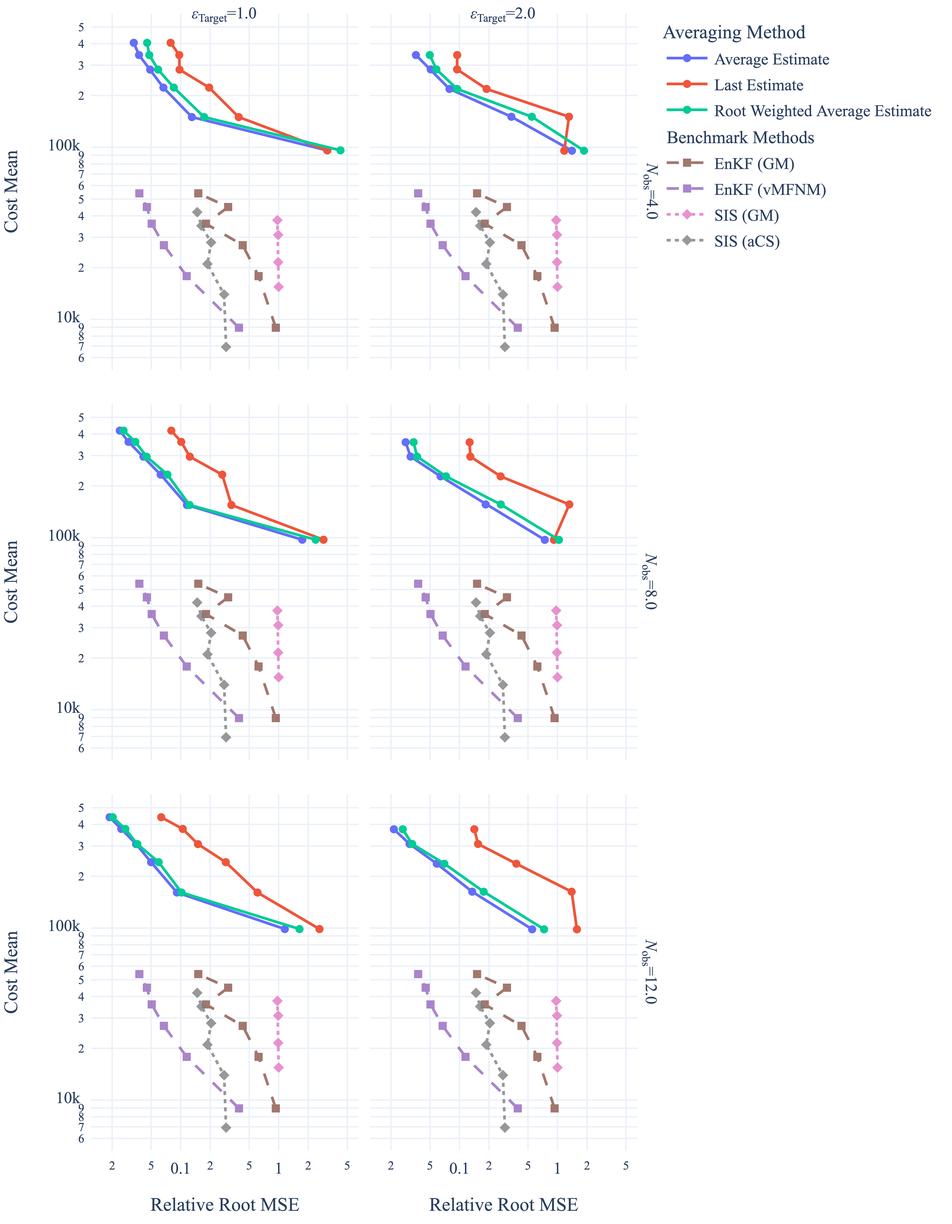
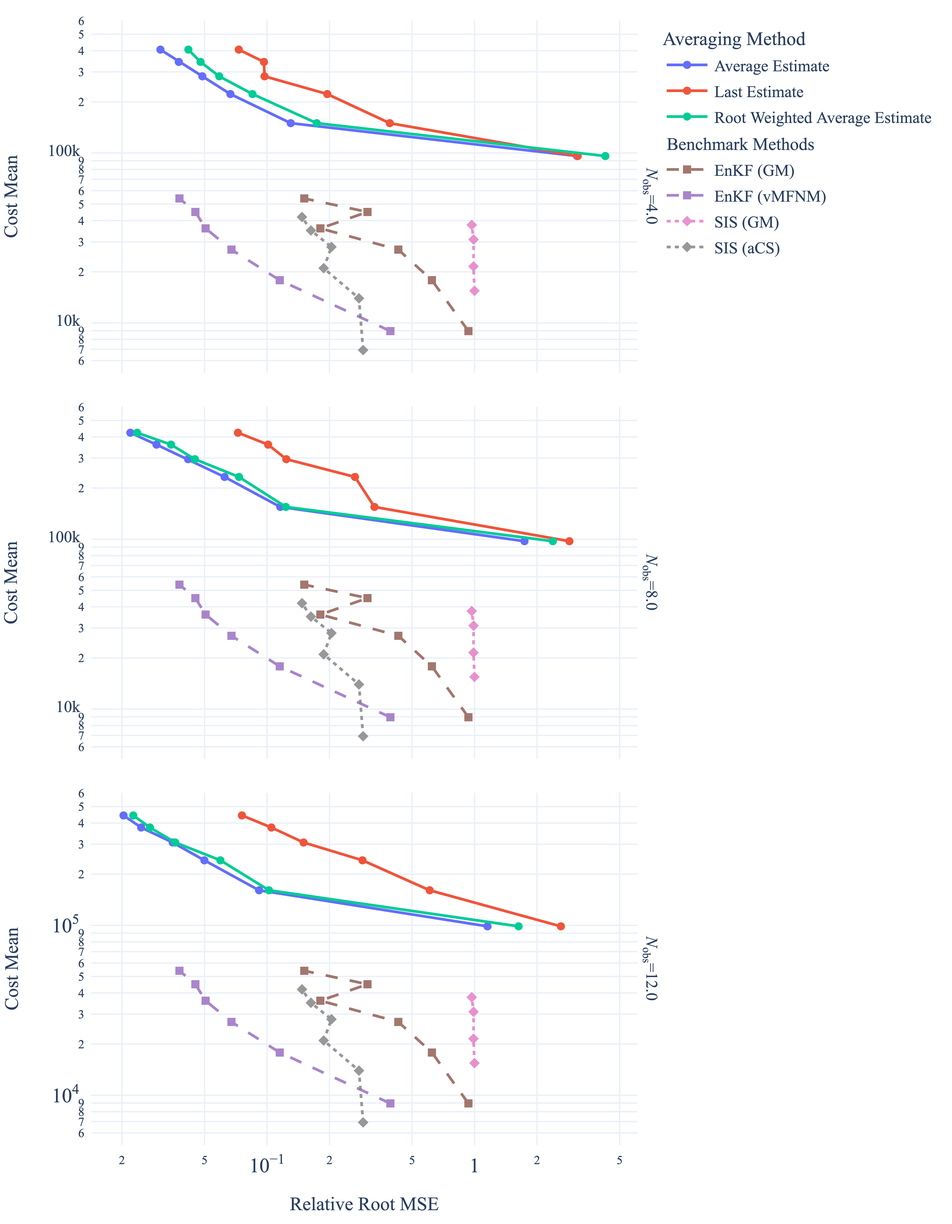
more on visualization.

diff --git a/docs/benchmarking/stopping_criterion.py b/docs/benchmarking/stopping_criterion.py
@@ -36,7 +36,7 @@ if not  (path.exists(path_df) and path.exists(path_df_agg) and path.exists(path_
     df = df.apply(expand_cbree_name, axis=1, columns= ['observation_window', 'callback'])
     # %% Pretty names
     to_drop = ["mixture_model"] # info is redundant as resample = False and callback exists
-    replace_values = {"Method": {"False": "CBREE", "vMFNM Resample": "CBREE (vMFNM)"}}
+    replace_values = {"Method": {"False": "CBREE", "vMFN Resample": "CBREE (vMFN, resampled)"}}
     df = df.drop(columns=to_drop) \
         .rename(columns=DF_COLUMNS_TO_LATEX) \
         .replace(replace_values)
@@ -56,7 +56,7 @@ if not  (path.exists(path_df) and path.exists(path_df_agg) and path.exists(path_
     #%% save
     df_success.to_pickle(path_df)
     df_agg.to_pickle(path_df_agg)
-    image.png.to_pickle(path_df_agg_all)
+    df_agg_all.to_pickle(path_df_agg_all)
 else:
     df_success = pd.read_pickle(path_df)
     df_agg = pd.read_pickle(path_df_agg)
@@ -83,7 +83,7 @@ tbl_params
 def decide(grp,par):
     best = grp.sort_values("Relative Root MSE")[par].values[0]
     return(pd.Series([best], index =[f"{par}"]))
-df_tgt_fun = df_agg.query("Problem in @low_dim_probs")\
+df_tgt_fun = df_agg.query("Problem in @low_dim_probs & Method == 'CBREE'")\
     .loc[:,("Problem", "Sample Size", "$\\Delta_{{\\text{{Target}}}}$", "Method", "Smoothing Function", "Relative Root MSE", "$N_{{ \\text{{obs}} }}$", "$\\epsilon_{{\\text{{Target}}}}$")] \
     .groupby(["Problem", "Sample Size", "$\\Delta_{{\\text{{Target}}}}$", "Method", "$N_{{ \\text{{obs}} }}$", "$\\epsilon_{{\\text{{Target}}}}$"]) \
     .apply(decide, "Smoothing Function") 
@@ -100,14 +100,14 @@ tbl = tbl.applymap(lambda x: f"{x*100:.2f}\%")
 tbl = tbl.rename(index = INDICATOR_APPROX_LATEX_NAME)
 tbl = tbl.rename(columns={c:squeeze_problem_names(c) for c in tbl.columns})
 tbl.style.to_latex("performance_approximations.tex", clines="all;data")
-tbl_description = f"Comparing the estimates of $\\textup{{relRootMSE}}(\\hat{{P}}_f)$ for different smoothing functions averaged over  all other parameter choices. The values denote the relative number of cases the corresponding smoothing function performed best for the given problem ({int(totals[0])} per problem)."
+tbl_description = f"Comparing the estimates of $\\textup{{relRootMSE}}(\\hat{{P}}_f)$ for different smoothing functions averaged over  all other parameter choices. The values denote the relative number of cases the corresponding smoothing function performed best for the given problem (in total {int(totals[0])} per problem)."
 with open(f"performance_approximations_desc.tex", "w") as file:
     file.write(tbl_description)
 print(tbl_description)
 tbl
 
 # %% Decide which stepsize tolerance is better
-df_tol = df_agg.query("Problem in @low_dim_probs")\
+df_tol = df_agg.query("Problem in @low_dim_probs & Method == 'CBREE'")\
     .loc[:,("Problem", "Sample Size", "$\\Delta_{{\\text{{Target}}}}$", "Method", "$\\epsilon_{{\\text{{Target}}}}$", "Relative Root MSE", "$N_{{ \\text{{obs}} }}$","Smoothing Function")] \
     .groupby(["Problem", "Sample Size", "$\\Delta_{{\\text{{Target}}}}$", "Method", "$N_{{ \\text{{obs}} }}$", "Smoothing Function"]) \
     .apply(decide,  "$\\epsilon_{{\\text{{Target}}}}$")     
@@ -122,14 +122,14 @@ tbl = tbl.applymap(lambda x: f"{x*100:.2f}\%")
 tbl = tbl.rename(columns={c:squeeze_problem_names(c) for c in tbl.columns}).\
     rename(index={idx:str(idx) for idx in tbl.index })
 tbl.style.to_latex("performance_stepsize_tolerance.tex", clines="all;data")
-tbl_description = f"Comparing the estimates of $\\textup{{relRootMSE}}(\\hat{{P}}_f)$ for different values of $\\epsilon_{{\\text{{Target}}}}$ averaged over  all other parameter choices. The values denote the relative number of cases (total {int(totals[0])}) the corresponding value performed best for the given problem."
+tbl_description = f"Comparing the estimates of $\\textup{{relRootMSE}}(\\hat{{P}}_f)$ for different values of $\\epsilon_{{\\text{{Target}}}}$ averaged over  all other parameter choices. The values denote the relative number of cases (in total {int(totals[0])} per problem) the corresponding value performed best for the given problem."
 with open(f"performance_stepsize_tolerance_desc.tex", "w") as file:
     file.write(tbl_description)
 print(tbl_description)
 tbl
 
 #%% Compare success rates for diverengence check
-df_rates = df_agg.query("Problem in @low_dim_probs & Method == 'CBREE (GM)'")
+df_rates = df_agg.query("Problem in @low_dim_probs & Method == 'CBREE'")
 df_rates = df_rates[df_rates["$\\epsilon_{{\\text{{Target}}}}$"]==best_tolerance]
 df_rates = df_rates[df_rates["Smoothing Function"] == best_approximation]
 df_rates = df_rates[df_rates["$\\Delta_{{\\text{{Target}}}}$"]==1]
@@ -142,74 +142,27 @@ tbl_success_rates = tbl_success_rates.groupby(list(tbl_success_rates))\
     .applymap(lambda x: f"{x*100:.2f}\%") \
     .rename(index={"0":'No div. check'})
 tbl_success_rates.rename(columns = {c: squeeze_problem_names(c) for c in tbl_success_rates.columns}, inplace=True)
-tbl_description = f"Comparing the success rates of the CBREE (GM) method for different values of $N_{{ \\text{{obs}} }}$  and $\\Delta_{{\\text{{Target}}}}=1$ averaged over all sample sizes $J =   {vec_to_latex_set(df_rates['Sample Size'].unique())}$. \
-The parameter $\\epsilon_{{\\text{{Target}}}} = {best_tolerance}$ \
+tbl_description = f"Comparing the success rates of the CBREE  method for different values of $N_{{ \\text{{obs}} }}$  averaged over all sample sizes $J =   {vec_to_latex_set(df_rates['Sample Size'].unique())}$. \
+The parameters $\\Delta_{{\\text{{Target}}}}=1$, \
+$\\epsilon_{{\\text{{Target}}}} = {best_tolerance}$ \
 and the choice of the indicator approximation {INDICATOR_APPROX_LATEX_NAME[best_approximation]} \
 are fixed. \
-The values denote the relative number of cases the CBREE (GM) method converged successfully for the particular combination of problem and paramter setting (total {6*200})."
+The values denote the relative number of cases the CBREE method converged successfully for the particular combination of problem and paramter setting (in total {6*200} per setting)."
 with open(f"success_obs_window_desc.tex", "w") as file:
     file.write(tbl_description)
 print(tbl_description)
 tbl_success_rates.style.to_latex("success_obs_window.tex", clines="all;data")
 tbl_success_rates
 
-#%% Compare performance for divergence check
-df_rates_all = df_agg_all.query("Problem in @low_dim_probs")
-df_rates_all = df_rates_all[df_rates_all["$\\epsilon_{{\\text{{Target}}}}$"]==best_tolerance]
-df_rates_all = df_rates_all[df_rates_all["Smoothing Function"] == best_approximation]
-df_rates_all = df_rates_all[df_rates_all["$\\Delta_{{\\text{{Target}}}}$"]==1]
-
-tbl_success_err = pd.pivot_table(df_rates, values="Relative Root MSE", index='$N_{{ \\text{{obs}} }}$', columns="Problem", aggfunc=np.mean)
-
-tbl_all_err = pd.pivot_table(df_rates_all, values="Relative Root MSE", index='$N_{{ \\text{{obs}} }}$', columns="Problem", aggfunc=np.mean)
-
-tbl_success_err.loc[0,:] = tbl_all_err.loc[0,:] 
-tbl_success_err = tbl_success_err / tbl_success_err.loc[0,:] 
-tbl_success_err = tbl_success_err[tbl_success_err.index.isin([2,5,10])]
-tbl_success_err = tbl_success_err.applymap(lambda x: f"{x*100:.2f}\%")
-tbl_success_err.index = pd.Index(map(my_number_formatter, tbl_success_err.index), name=tbl_success_rates.index.name)
-tbl_success_err = tbl_success_err.rename(columns={c: squeeze_problem_names(c) for c in tbl_success_err.columns})
-tbl_success_err
-tbl_describtion = f"Comparing the emprirical relative root MSE of the CBREE (GM) method for different values of $N_{{ \\text{{obs}} }} > 1$  and $\\Delta_{{\\text{{Target}}}}=1$ to the base case of ommiting the divergence check. \
-The parameter $\\epsilon_{{\\text{{Target}}}} = {best_tolerance}$ \
-and the choice of the indicator approximation {INDICATOR_APPROX_LATEX_NAME[best_approximation]} \
-are fixed. \
-For each problem and choice of $N_{{ \\text{{obs}} }} > 1$ as well as for the base case we average the empirical relative root MSE over all sample sizes $J$ before computing the proportion to the base case."
-with open(f"performance_obs_window_desc.tex", "w") as file:
-    file.write(tbl_describtion)
-print(tbl_describtion)
-tbl_success_err.style.to_latex("performance_obs_window.tex", clines="all;data")
-tbl_success_err
-
-# %% Compare cost for obs_window
-tbl_success_cost = pd.pivot_table(df_rates, values="Cost Mean", index='$N_{{ \\text{{obs}} }}$', columns="Problem", aggfunc=np.mean)
-
-tbl_all_cost = pd.pivot_table(df_rates_all, values="Cost Mean", index='$N_{{ \\text{{obs}} }}$', columns="Problem", aggfunc=np.mean)
-
-tbl_success_cost.loc[0,:] = tbl_all_cost.loc[0,:] 
-tbl_success_cost = tbl_success_cost / tbl_success_cost.loc[0,:] 
-tbl_success_cost = tbl_success_cost[tbl_success_cost.index.isin([2,5,10])]
-tbl_success_cost = tbl_success_cost.applymap(lambda x: f"{x*100:.2f}\%")
-tbl_success_cost.index = pd.Index(map(my_number_formatter, tbl_success_cost.index), name=tbl_success_cost.index.name)
-tbl_description = f"Comparing the emprirical average cost of the CBREE (GM) method for different values of $N_{{ \\text{{obs}} }} > 1$  and $\\Delta_{{\\text{{Target}}}}=1$ to the base case of ommiting the divergence check. \
-The parameter $\\epsilon_{{\\text{{Target}}}} = {best_tolerance}$ \
-and the choice of the indicator approximation {INDICATOR_APPROX_LATEX_NAME[best_approximation]} \
-are fixed. \
-For each problem and choice of $N_{{ \\text{{obs}} }} > 1$ as well as for the base case we average the empirical average cost over all sample sizes $J$ before computing the proportion to the base case."
-with open(f"cost_obs_window_desc.tex", "w") as file:
-    file.write(tbl_description)
-print(tbl_description)
-tbl_success_cost.style.to_latex("cost_obs_window.tex", clines="all;data")
-tbl_success_cost
 
 #%% make plot for divergence check with fujita rackwitz
-fr_all = df_agg_all.query("Problem == 'Fujita Rackwitz Problem (d=2)' & Method =='CBREE (GM)'")
+fr_all = df_agg_all.query("Problem == 'Fujita Rackwitz Problem (d=2)' & Method =='CBREE'")
 fr_all = fr_all[(fr_all[DF_COLUMNS_TO_LATEX['observation_window']]==0) & \
                 (fr_all[DF_COLUMNS_TO_LATEX['stepsize_tolerance']]==best_tolerance) & \
                 (fr_all[DF_COLUMNS_TO_LATEX['tgt_fun']]==best_approximation) & \
                 (fr_all[DF_COLUMNS_TO_LATEX['cvar_tgt']]==1)]
 fr_all = fr_all.assign(Portion="All Simulations")
-fr_success = df_agg.query("Problem == 'Fujita Rackwitz Problem (d=2)' & Method =='CBREE (GM)'")
+fr_success = df_agg.query("Problem == 'Fujita Rackwitz Problem (d=2)' & Method =='CBREE'")
 fr_success = fr_success[(fr_success[DF_COLUMNS_TO_LATEX['observation_window']]>0) & \
                 (fr_success[DF_COLUMNS_TO_LATEX['stepsize_tolerance']]==best_tolerance) & \
                 (fr_success[DF_COLUMNS_TO_LATEX['tgt_fun']]==best_approximation) & \
@@ -254,7 +207,7 @@ fig_fr.show()
 
 fig_list= []
 for prob in df_agg.Problem.unique():
-    this_df = df_agg.query("Problem == @prob & Method=='CBREE (GM)'")
+    this_df = df_agg.query("Problem == @prob & Method=='CBREE'")
     this_df = this_df[this_df["$\\epsilon_{{\\text{{Target}}}}$"]==best_tolerance]
     this_df = this_df[this_df["Smoothing Function"] == best_approximation]
     this_df = this_df[this_df['$N_{{ \\text{{obs}} }}$'].isin([0, 2,5,10])]
@@ -305,7 +258,7 @@ for prob in df_agg.Problem.unique():
     fig.update_layout(**{"width":700,
     "height":800})
     fig.for_each_annotation(
-        lambda a: a.update(yshift =  -10 if a.text.startswith("Method") else 0))    
+        lambda a: a.update(text="" if a.text.startswith("Method") else a.text))    
     old_a = LATEX_TO_HTML[DF_COLUMNS_TO_LATEX["observation_window"]] + "=0.0"
     new_a = "No Divergence Check"
     fig.for_each_annotation(
@@ -319,10 +272,9 @@ the length of the observation window $N_\\text{{obs}}$ (row). \
 The parameter $\\epsilon_{{\\text{{Target}}}} = {best_tolerance}$ \
 and the choice of the indicator approximation {INDICATOR_APPROX_LATEX_NAME[best_approximation]} \
 are fixed. \
-Furthermore we plot also the performance of the benchmark methods EnKF\
-(with different importance sampling densities)\
-and SiS (with different MCMC sampling methods). \
-We used the sample sizes $J \\in {vec_to_latex_set(df_agg['Sample Size'].unique())}$.\
+Furthermore we plot also the performance of the benchmark methods EnKF \
+and SiS. \
+We used the sample sizes $J \\in {vec_to_latex_set(df_agg['Sample Size'].unique())}$. \
 Each marker represents the empirical estimates based the successful portion of $200$ simulations."
     with open(f"{prob} criterion_desc.tex".replace(" ", "_").lower(), "w") as file:
         file.write(fig_description)

diff --git a/docs/benchmarking/resampled_vmnfm_visualization.py b/docs/benchmarking/resampled_vmnfm_visualization.py
@@ -15,7 +15,7 @@ from rareeventestimation.evaluation.visualization import add_scatter_to_subplots
 # %% Load
 data_dir ="/Users/konstantinalthaus/Documents/Master TUM/Masterthesis/Package/rareeventestimation_data Kopie/cbree_sim/toy_problems/resampled"
 df_path =path.join(data_dir, "resampled_toy_problems.pkl")
-if  path.exists(df_path):
+if not path.exists(df_path):
     df = ree.load_data(data_dir, "*")
     df.drop(columns=["index", "Unnamed: 0", "VAR Weighted Average Estimate","CVAR"], inplace=True, errors="ignore")
     df.drop_duplicates(inplace=True)
@@ -23,7 +23,7 @@ if  path.exists(df_path):
     # %% Pretty names
     to_drop = ["callback"] # no callbacks here
     df.rename(columns={"mixture_model": "Method"}, inplace=True)
-    replace_values = {"Method": {"GM": "CBREE (GM)", "vMFNM": "CBREE (vMFNM, resampled)"}}
+    replace_values = {"Method": {"GM": "CBREE", "vMFNM": "CBREE (vMFN)"}}
     df = df.drop(columns=to_drop) \
         .rename(columns=DF_COLUMNS_TO_LATEX) \
         .replace(replace_values)
@@ -97,25 +97,23 @@ for prob in df_agg.Problem.unique():
         lambda a: a.update(yshift =  -10 if a.text.startswith("Method") else 0))
     fig.show()
     fig.write_image(f"{prob} resampled stopping criterion.png".replace(" ", "_").lower(), scale=WRITE_SCALE)
-    fig_description = f"Solving {prob} with the CBREE methods using  \
+    fig_description = f"Solving the {prob} with the CBREE methods using  \
     different parameters. \
     We vary the stopping criterion $\\Delta_{{\\text{{Target}}}}$ (color), \
     the divergence criterion $N_\\text{{obs}}$ (row) and \
-    the method $\\mu^N$ (column). \
+    the method  (column). \
     The parameter $\\epsilon_{{\\text{{Target}}}} = {0.5}$ \
     and the choice of the indicator approximation {INDICATOR_APPROX_LATEX_NAME['algebraic']} \
     are fixed. \
-    Furthermore we plot also the performance of the benchmark methods EnKF\
-    (with different importance sampling densities)\
-    and SiS (with different MCMC sampling methods). \
-    We used the sample sizes $J \\in {vec_to_latex_set(df_agg['Sample Size'].unique())}$. \
+    Furthermore we plot also the performance of the benchmark methods EnKF \
+    and SiS. \
     Each marker represents the empirical estimates based the successful portion of $200$ simulations."
     with open(f"{prob} resampled stopping criterion desc.tex".replace(" ", "_").lower(), "w") as file:
         file.write(fig_description)
     print(fig_description)
 # %%
 # %% Make table with used parameters
-
+# 
      
 paras = ["Sample Size"] + list(DF_COLUMNS_TO_LATEX.values())
 tbl_params = df_agg.loc[:, tuple(paras)] \

diff --git a/docs/benchmarking/diffusion_problem_evaluation.py b/docs/benchmarking/diffusion_problem_evaluation.py
@@ -60,7 +60,7 @@ df_bm, df_bm_agg = ree.get_benchmark_df(data_dirs=bm_data_dirs,
 fig_list= []
 for prob in df_agg["Problem"].unique():
     this_df = df_agg.query("Problem == @prob & `Smoothing Function` == 'algebraic'")
-    #this_df = this_df[this_df["$\\epsilon_{{\\text{{Target}}}}$"]==best_tolerance]
+    this_df = this_df[this_df["$\\epsilon_{{\\text{{Target}}}}$"]==1]
     #this_df = this_df[this_df["Smoothing Function"] == "algebraic"]
     this_df = this_df[this_df['$N_{{ \\text{{obs}} }}$'].isin([4,8,12])]
    # this_df["cvar_tgt_str"] = this_df["$\\Delta_{{\\text{{Target}}}}$"].apply(str)
@@ -103,26 +103,20 @@ for prob in df_agg["Problem"].unique():
     fig.update_layout(**MY_LAYOUT)
     fig.update_layout(height=900)
     fig.for_each_annotation(
-        lambda a: a.update(yshift =  -10 if a.text.startswith(LATEX_TO_HTML[DF_COLUMNS_TO_LATEX["stepsize_tolerance"]]) else 0))
+        lambda a: a.update(text =  "" if a.text.startswith(LATEX_TO_HTML[DF_COLUMNS_TO_LATEX["stepsize_tolerance"]]) else a.text))
     fig.show()
     fig.write_image(f"diffusion problem.png".replace(" ", "_").lower(), scale=WRITE_SCALE)
-    fig.update_layout(legend=dict(
-    orientation="h",
-    yanchor="bottom",
-    y=1.02,
-    xanchor="right",
-    x=1))
     fig.show()
-    fig_description = f"Solving the {prob} with the CBREE (vMFNM, resampled) method using  \
+    fig_description = f"Solving the {prob} with the CBREE (vMFN) method using  \
 different parameters. \
-We vary the averaging method (color), \
-the stepsize tolerance $\\epsilon_{{\\text{{Target}}}}$ (column) and \
-the divergence criterion $N_\\text{{obs}}$ (row). \
-The choice of the stopping criterion $\\Delta_{{\\text{{Target}}}} = 2$ and indicator approximation {INDICATOR_APPROX_LATEX_NAME['algebraic']} \
+We vary the averaging method (color) and \
+the divergence check $N_\\text{{obs}}$ (row). \
+The choice of the stopping criterion $\\Delta_{{\\text{{Target}}}} = 2$, \
+the stepsize tolerance $\\epsilon_{{\\text{{Target}}}}=1$ \
+and indicator approximation {INDICATOR_APPROX_LATEX_NAME['algebraic']} \
 are fixed. \
-Furthermore we plot also the performance of the benchmark methods EnKF\
-(with different importance sampling densities)\
-and SiS (with different MCMC sampling methods). \
+Furthermore we plot also the performance of the benchmark methods EnKF \
+and SIS.  \
 We used the sample sizes $J \\in {vec_to_latex_set(df_agg['Sample Size'].unique())}$. \
 Each marker represents the empirical estimates based the successful portion of $200$ simulations."
     with open(f"diffusion problem desc.tex".replace(" ", "_").lower(), "w") as file:

diff --git a/docs/figures/divergence_check.py b/docs/figures/divergence_check.py
@@ -25,8 +25,7 @@ solver = ree.CBREE(seed=1,
              return_other=True)
 sol = solver.solve(prob)
 
-# %%
-ree.plot_cbree_parameters(sol, prob, plot_time=False)
+
 # %%
 fig = make_subplots(rows=3,
                     cols=1,
@@ -72,7 +71,7 @@ for p, p_name in params.items():
 fig.add_trace(
     go.Scatter(
         y = sol.other["cvar_is_weights"],
-        name = "\u0394(<i><b>r</b><sup>n</sup></i>)"
+        name = "C.O.V.(<i><b>r</b><sup>n</sup></i>)"
     ),
     row = 3,
     col = 1,
@@ -91,7 +90,7 @@ fig.add_hline(y=cvar_tgt,
     
 # Style fig
 fig.update_yaxes(title_text="Rel. Error", type="log", row=1, col=1)
-fig.update_yaxes(title_text="\u0394(<i><b>r</b><sup>n</sup></i>)", row=3, col=1, type="log")
+fig.update_yaxes(title_text="C.O.V.(<i><b>r</b><sup>n</sup></i>)", row=3, col=1, type="log")
 fig.update_yaxes(title_text=f"{STR_SIGMA_N} and {STR_H_N}", title_standoff=10, row=2, col=1, secondary_y=True)
 fig.update_yaxes(title_text=STR_BETA_N, row=2, col=1, secondary_y=False)
 fig.update_xaxes(title_text="Iteration <i>n<i>", row=3, col=1)
@@ -146,8 +145,8 @@ fig2.show()
 # save everything
 fig_description = f"Solving the {prob.name} with the CBREE method using  \
 $J = {J}$ particles, \
-stopping criterion $\\Delta_{{\\text{{Target}}}} = {cvar_tgt}$, \
-stepsize tolerance $\\epsilon_{{\\text{{Target}}}} = {solver.stepsize_tolerance}$, \
+the stopping criterion $\\Delta_{{\\text{{Target}}}} = {cvar_tgt}$, \
+the stepsize tolerance $\\epsilon_{{\\text{{Target}}}} = {solver.stepsize_tolerance}$, \
 controlling the increase of $\\sigma$ with $\\text{{Lip}}(\\sigma) = {solver.lip_sigma}$ \
 and approximating the indicator function with {INDICATOR_APPROX_LATEX_NAME[solver.tgt_fun]}."
 print(fig_description)

diff --git a/docs/benchmarking/diffusion_problem_desc.tex b/docs/benchmarking/diffusion_problem_desc.tex
@@ -1,1 +1,1 @@
-Solving the Diffusion Problem (d=150) with the CBREE (vMFNM, resampled) method using  different parameters. We vary the averaging method (color), the stepsize tolerance $\epsilon_{\text{Target}}$ (column) and the divergence criterion $N_\text{obs}$ (row). The choice of the stopping criterion $\Delta_{\text{Target}} = 2$ and indicator approximation $I_\text{alg}$ are fixed. Furthermore we plot also the performance of the benchmark methods EnKF(with different importance sampling densities)and SiS (with different MCMC sampling methods). We used the sample sizes $J \in \{1000, 2000, \ldots, 6000\}$. Each marker represents the empirical estimates based the successful portion of $200$ simulations.
+Solving the Diffusion Problem (d=150) with the CBREE (vMFN) method using  different parameters. We vary the averaging method (color) and the divergence check $N_\text{obs}$ (row). The choice of the stopping criterion $\Delta_{\text{Target}} = 2$, the stepsize tolerance $\epsilon_{\text{Target}}=1$ and indicator approximation $I_\text{alg}$ are fixed. Furthermore we plot also the performance of the benchmark methods EnKF and SIS.  We used the sample sizes $J \in \{1000, 2000, \ldots, 6000\}$. Each marker represents the empirical estimates based the successful portion of $200$ simulations.

diff --git a/docs/benchmarking/fujita_rackwitz_problem_(d=50)_resampled_stopping_criterion_desc.tex b/docs/benchmarking/fujita_rackwitz_problem_(d=50)_resampled_stopping_criterion_desc.tex
@@ -1,1 +1,1 @@
-Solving Fujita Rackwitz Problem (d=50) with the CBREE methods using      different parameters.     We vary the stopping criterion $\Delta_{\text{Target}}$ (color),     the divergence criterion $N_\text{obs}$ (row) and     the method $\mu^N$ (column).     The parameter $\epsilon_{\text{Target}} = 0.5$     and the choice of the indicator approximation $I_\text{alg}$     are fixed.     Furthermore we plot also the performance of the benchmark methods EnKF    (with different importance sampling densities)    and SiS (with different MCMC sampling methods).     We used the sample sizes $J \in \{1000, 2000, \ldots, 6000\}$.     Each marker represents the empirical estimates based the successful portion of $200$ simulations.
+Solving the Fujita Rackwitz Problem (d=50) with the CBREE methods using      different parameters.     We vary the stopping criterion $\Delta_{\text{Target}}$ (color),     the divergence criterion $N_\text{obs}$ (row) and     the method  (column).     The parameter $\epsilon_{\text{Target}} = 0.5$     and the choice of the indicator approximation $I_\text{alg}$     are fixed.     Furthermore we plot also the performance of the benchmark methods EnKF     and SiS.     Each marker represents the empirical estimates based the successful portion of $200$ simulations.

diff --git a/docs/benchmarking/fujita_rackwitz_problem_(d=2)_resampled_stopping_criterion_desc.tex b/docs/benchmarking/fujita_rackwitz_problem_(d=2)_resampled_stopping_criterion_desc.tex
@@ -1,1 +1,1 @@
-Solving Fujita Rackwitz Problem (d=2) with the CBREE methods using      different parameters.     We vary the stopping criterion $\Delta_{\text{Target}}$ (color),     the divergence criterion $N_\text{obs}$ (row) and     the method $\mu^N$ (column).     The parameter $\epsilon_{\text{Target}} = 0.5$     and the choice of the indicator approximation $I_\text{alg}$     are fixed.     Furthermore we plot also the performance of the benchmark methods EnKF    (with different importance sampling densities)    and SiS (with different MCMC sampling methods).     We used the sample sizes $J \in \{1000, 2000, \ldots, 6000\}$.     Each marker represents the empirical estimates based the successful portion of $200$ simulations.
+Solving the Fujita Rackwitz Problem (d=2) with the CBREE methods using      different parameters.     We vary the stopping criterion $\Delta_{\text{Target}}$ (color),     the divergence criterion $N_\text{obs}$ (row) and     the method  (column).     The parameter $\epsilon_{\text{Target}} = 0.5$     and the choice of the indicator approximation $I_\text{alg}$     are fixed.     Furthermore we plot also the performance of the benchmark methods EnKF     and SiS.     Each marker represents the empirical estimates based the successful portion of $200$ simulations.

diff --git a/docs/benchmarking/linear_problem_(d=50)_resampled_stopping_criterion_desc.tex b/docs/benchmarking/linear_problem_(d=50)_resampled_stopping_criterion_desc.tex
@@ -1,1 +1,1 @@
-Solving Linear Problem (d=50) with the CBREE methods using      different parameters.     We vary the stopping criterion $\Delta_{\text{Target}}$ (color),     the divergence criterion $N_\text{obs}$ (row) and     the method $\mu^N$ (column).     The parameter $\epsilon_{\text{Target}} = 0.5$     and the choice of the indicator approximation $I_\text{alg}$     are fixed.     Furthermore we plot also the performance of the benchmark methods EnKF    (with different importance sampling densities)    and SiS (with different MCMC sampling methods).     We used the sample sizes $J \in \{1000, 2000, \ldots, 6000\}$.     Each marker represents the empirical estimates based the successful portion of $200$ simulations.
+Solving the Linear Problem (d=50) with the CBREE methods using      different parameters.     We vary the stopping criterion $\Delta_{\text{Target}}$ (color),     the divergence criterion $N_\text{obs}$ (row) and     the method  (column).     The parameter $\epsilon_{\text{Target}} = 0.5$     and the choice of the indicator approximation $I_\text{alg}$     are fixed.     Furthermore we plot also the performance of the benchmark methods EnKF     and SiS.     Each marker represents the empirical estimates based the successful portion of $200$ simulations.

diff --git a/docs/benchmarking/linear_problem_(d=2)_resampled_stopping_criterion_desc.tex b/docs/benchmarking/linear_problem_(d=2)_resampled_stopping_criterion_desc.tex
@@ -1,1 +1,1 @@
-Solving Linear Problem (d=2) with the CBREE methods using      different parameters.     We vary the stopping criterion $\Delta_{\text{Target}}$ (color),     the divergence criterion $N_\text{obs}$ (row) and     the method $\mu^N$ (column).     The parameter $\epsilon_{\text{Target}} = 0.5$     and the choice of the indicator approximation $I_\text{alg}$     are fixed.     Furthermore we plot also the performance of the benchmark methods EnKF    (with different importance sampling densities)    and SiS (with different MCMC sampling methods).     We used the sample sizes $J \in \{1000, 2000, \ldots, 6000\}$.     Each marker represents the empirical estimates based the successful portion of $200$ simulations.
+Solving the Linear Problem (d=2) with the CBREE methods using      different parameters.     We vary the stopping criterion $\Delta_{\text{Target}}$ (color),     the divergence criterion $N_\text{obs}$ (row) and     the method  (column).     The parameter $\epsilon_{\text{Target}} = 0.5$     and the choice of the indicator approximation $I_\text{alg}$     are fixed.     Furthermore we plot also the performance of the benchmark methods EnKF     and SiS.     Each marker represents the empirical estimates based the successful portion of $200$ simulations.

diff --git a/docs/benchmarking/fujita_rackwitz_problem_(d=50)_criterion_desc.tex b/docs/benchmarking/fujita_rackwitz_problem_(d=50)_criterion_desc.tex
@@ -1,1 +1,1 @@
-Solving the Fujita Rackwitz Problem (d=50) with the CBREE method using  different parameters. We vary the stopping criterion $\Delta_{\text{Target}}$ (color) and the length of the observation window $N_\text{obs}$ (row). The parameter $\epsilon_{\text{Target}} = 0.5$ and the choice of the indicator approximation $I_\text{alg}$ are fixed. Furthermore we plot also the performance of the benchmark methods EnKF(with different importance sampling densities)and SiS (with different MCMC sampling methods). We used the sample sizes $J \in \{1000, 2000, \ldots, 6000\}$.Each marker represents the empirical estimates based the successful portion of $200$ simulations.
+Solving the Fujita Rackwitz Problem (d=50) with the CBREE method using  different parameters. We vary the stopping criterion $\Delta_{\text{Target}}$ (color) and the length of the observation window $N_\text{obs}$ (row). The parameter $\epsilon_{\text{Target}} = 0.5$ and the choice of the indicator approximation $I_\text{alg}$ are fixed. Furthermore we plot also the performance of the benchmark methods EnKF and SiS. We used the sample sizes $J \in \{1000, 2000, \ldots, 6000\}$. Each marker represents the empirical estimates based the successful portion of $200$ simulations.

diff --git a/docs/benchmarking/fujita_rackwitz_problem_(d=2)_criterion_desc.tex b/docs/benchmarking/fujita_rackwitz_problem_(d=2)_criterion_desc.tex
@@ -1,1 +1,1 @@
-Solving the Fujita Rackwitz Problem (d=2) with the CBREE method using  different parameters. We vary the stopping criterion $\Delta_{\text{Target}}$ (color) and the length of the observation window $N_\text{obs}$ (row). The parameter $\epsilon_{\text{Target}} = 0.5$ and the choice of the indicator approximation $I_\text{alg}$ are fixed. Furthermore we plot also the performance of the benchmark methods EnKF(with different importance sampling densities)and SiS (with different MCMC sampling methods). We used the sample sizes $J \in \{1000, 2000, \ldots, 6000\}$.Each marker represents the empirical estimates based the successful portion of $200$ simulations.
+Solving the Fujita Rackwitz Problem (d=2) with the CBREE method using  different parameters. We vary the stopping criterion $\Delta_{\text{Target}}$ (color) and the length of the observation window $N_\text{obs}$ (row). The parameter $\epsilon_{\text{Target}} = 0.5$ and the choice of the indicator approximation $I_\text{alg}$ are fixed. Furthermore we plot also the performance of the benchmark methods EnKF and SiS. We used the sample sizes $J \in \{1000, 2000, \ldots, 6000\}$. Each marker represents the empirical estimates based the successful portion of $200$ simulations.

diff --git a/docs/benchmarking/linear_problem_(d=50)_criterion_desc.tex b/docs/benchmarking/linear_problem_(d=50)_criterion_desc.tex
@@ -1,1 +1,1 @@
-Solving the Linear Problem (d=50) with the CBREE method using  different parameters. We vary the stopping criterion $\Delta_{\text{Target}}$ (color) and the length of the observation window $N_\text{obs}$ (row). The parameter $\epsilon_{\text{Target}} = 0.5$ and the choice of the indicator approximation $I_\text{alg}$ are fixed. Furthermore we plot also the performance of the benchmark methods EnKF(with different importance sampling densities)and SiS (with different MCMC sampling methods). We used the sample sizes $J \in \{1000, 2000, \ldots, 6000\}$.Each marker represents the empirical estimates based the successful portion of $200$ simulations.
+Solving the Linear Problem (d=50) with the CBREE method using  different parameters. We vary the stopping criterion $\Delta_{\text{Target}}$ (color) and the length of the observation window $N_\text{obs}$ (row). The parameter $\epsilon_{\text{Target}} = 0.5$ and the choice of the indicator approximation $I_\text{alg}$ are fixed. Furthermore we plot also the performance of the benchmark methods EnKF and SiS. We used the sample sizes $J \in \{1000, 2000, \ldots, 6000\}$. Each marker represents the empirical estimates based the successful portion of $200$ simulations.
